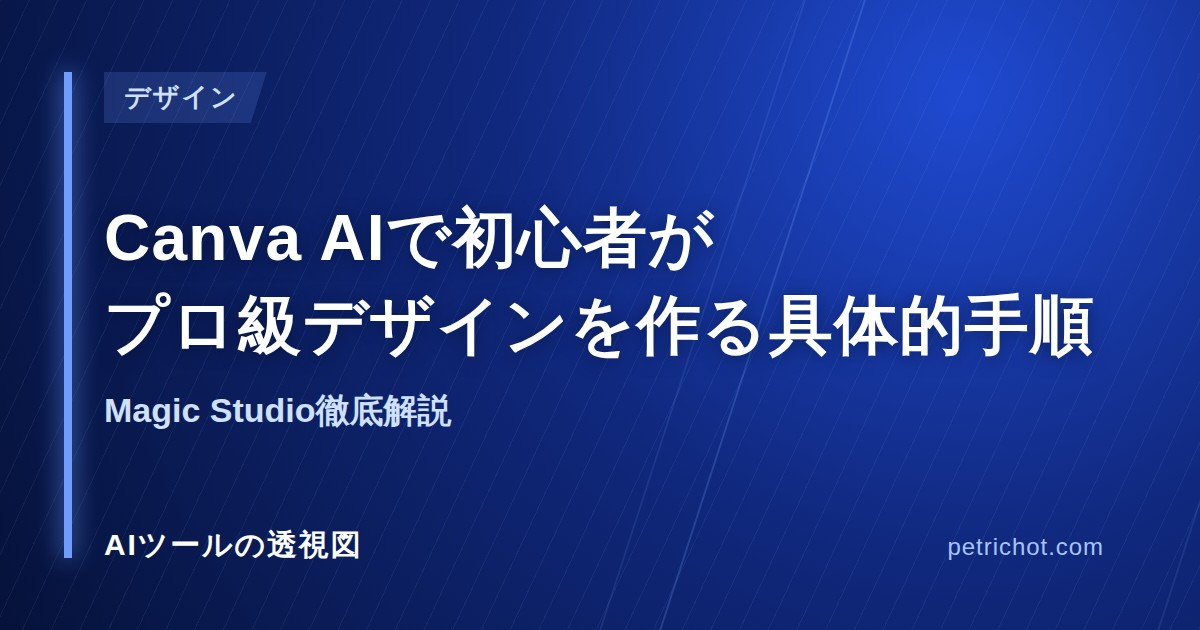
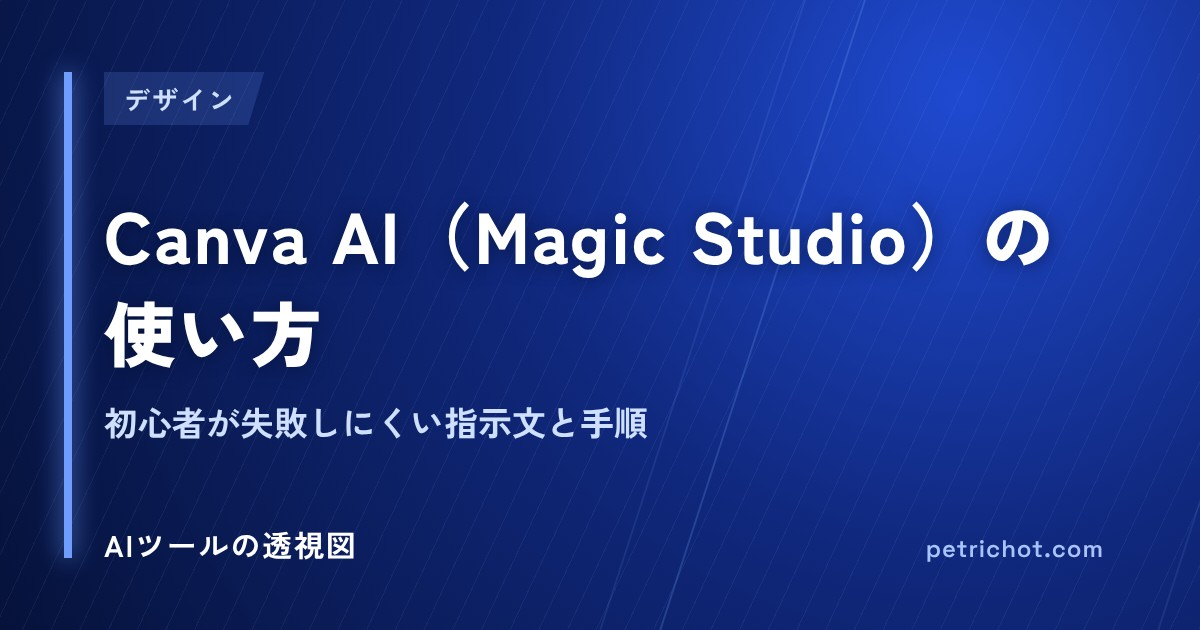
update: 「Canva AI（Magic Studio）の使い方｜初心者が失敗しにくい指示文と手順」に改題・更新(事実確認:Magic Editと背景削除など機能の取り違えを修正、誇張を削除)
Claude-Session: https://claude.ai/code/session_01XMqZdQHkJM2VNmqCkBvbz3

diff --git a/affiliate/content/ai-presentation-shiryou-tsukurikata.md b/affiliate/content/ai-presentation-shiryou-tsukurikata.md
@@ -38,7 +38,7 @@ tags: [AI, プレゼン, 資料作成, MiriCanvas, デザイン, 業務効率化
 
 比べて見えてくるのは、**AIツールは「量」に強く、手作業は「特別な1枚」に強い**ということです。毎週の定例報告や、似た形の提案書を何本も作る場面ではAIツールが効きます。一方、勝負をかける1本のプレゼンなら、時間をかけて自分で作る価値があります。
 
-似た性格のツールとして、スライド作成に特化した[イルシルでAIスライド資料を作る方法](/irusiru-ai-slide-tsukurikata/)や、資料全般を扱う[Canva AIで初心者がプロ級デザインを作る具体的手順|Magic Studio徹底解説](/canva-ai-design-nyumon/)も記事にしています。ツールそのものを選ぶ段階であれば、[AI資料作成ツールの選び方｜作り方のタイプで決める](/shiryou-sakusei-tool-erabikata/)が判断の助けになります。
+似た性格のツールとして、スライド作成に特化した[イルシルでAIスライド資料を作る方法](/irusiru-ai-slide-tsukurikata/)や、資料全般を扱う[Canva AI（Magic Studio）の使い方｜初心者が失敗しにくい指示文と手順](/canva-ai-design-nyumon/)も記事にしています。ツールそのものを選ぶ段階であれば、[AI資料作成ツールの選び方｜作り方のタイプで決める](/shiryou-sakusei-tool-erabikata/)が判断の助けになります。
 
 ## 発表の骨組みを先に作る｜依頼文の実物
 
